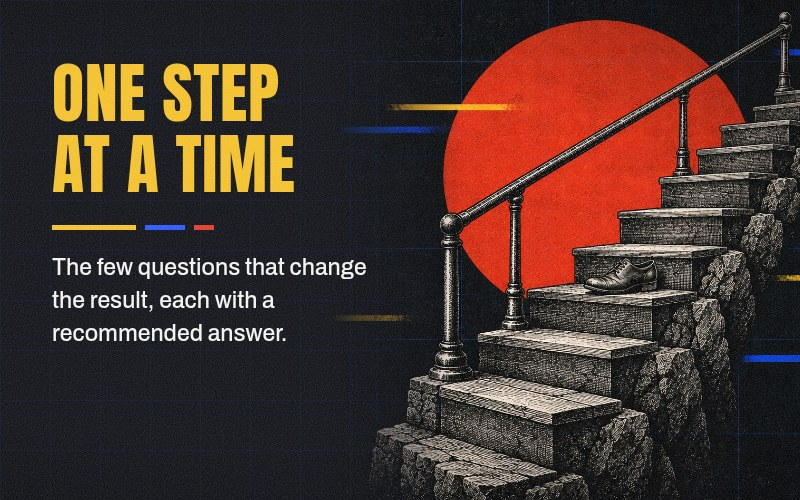
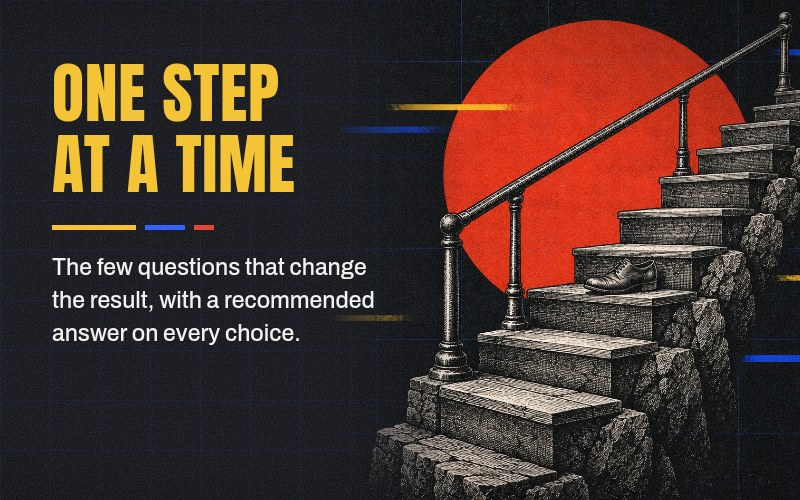
docs: a recommended answer on every choice, not on every step
The Hermes /review found the README art and body promising a recommended answer on every step. Only the choice
steps have one: the text steps return no recommendation and, with the AI off, offer Skip.

README intro, usage step 3, the one-step card (image, alt text and caption), the how-it-works strip (image and alt
text) and docs/STEPS-REVIEW.md now say so. Tests: studio-core pins that every choice step has a recommendation and no
text step has one on the four targets; the docs test refuses the every-step wording.

Changed region(s): [[0.0625, 0.57, 0.4688, 0.69]]

diff --git a/tests/test_docs_structure.py b/tests/test_docs_structure.py
@@ -45,6 +45,13 @@ def test_the_catalog_banner_is_two_to_one():
     assert (int.from_bytes(data[16:20], "big"), int.from_bytes(data[20:24], "big")) == (1200, 600)
 
 
+def test_docs_promise_a_recommendation_on_choices_only():
+    # Text steps have none of their own (tests/desktop/studio-core.test.mjs pins it), so "every step" is untrue.
+    claim = re.compile(r"(?:each|every) step\b[^.]{0,60}recommend|steps?, each with a recommended", re.I)
+    for name in ("README.md", "docs/STEPS-REVIEW.md"):
+        assert not claim.search((REPO / name).read_text()), name
+
+
 def test_six_adrs_each_with_status_context_decision_consequences():
     assert [p.name[:4] for p in ADRS] == ["0001", "0002", "0003", "0004", "0005", "0006"]
     for adr in ADRS:

diff --git a/README.md b/README.md
@@ -4,7 +4,7 @@
 
 Prompt Studio is a Hermes Desktop plugin that turns a rough request into a well-built prompt for
 **Claude Fable 5.2**, **Claude Opus 5.5**, **Claude Sonnet 5.5** or **GPT-6 Astra**. It asks the few questions that change the result, one step
-at a time, with a recommended answer on each. Then it writes the prompt and places it in the message field for you to
+at a time, with a recommended answer on every choice. Then it writes the prompt and places it in the message field for you to
 review. It never sends anything on its own.
 
 Each step can get a suggestion from an auxiliary AI model, and at the end that model can polish the prompt from your
@@ -13,12 +13,12 @@ engine for the chosen model. The four engines were written for this plugin from 
 documentation ([how each prompt is built](docs/MODELS.md)).
 
 <table><tr>
-<td width="33%" valign="top"><img src="docs/images/card-one-step.jpg" alt="Feature card: One step at a time. The few questions that change the result, each with a recommended answer. Illustration of an engraved staircase climbed one step at a time."><h3>One step at a time</h3><p>It asks the few questions that change the result, one at a time. Every step has a recommended answer, and you can skip, go back or edit an earlier one.</p></td>
+<td width="33%" valign="top"><img src="docs/images/card-one-step.jpg" alt="Feature card: One step at a time. The few questions that change the result, with a recommended answer on every choice. Illustration of an engraved staircase climbed one step at a time."><h3>One step at a time</h3><p>It asks the few questions that change the result, one at a time. Every choice has a recommended answer, and you can skip, go back or edit an earlier one.</p></td>
 <td width="33%" valign="top"><img src="docs/images/card-four-engines.jpg" alt="Feature card: Built for your model. Four engines written from the official prompting docs of each model. Illustration of four different engraved pen nibs."><h3>Built for your model</h3><p>Four prompt engines, for Claude Fable 5.2, Claude Opus 5.5, Claude Sonnet 5.5 and GPT-6 Astra, each written from the vendor's official prompting documentation.</p></td>
 <td width="33%" valign="top"><img src="docs/images/card-ai-off.jpg" alt="Feature card: Works with the AI off. AI suggestions when you want them. A complete prompt even without them. Illustration of a hand-cranked lantern, lit, next to an unplugged cable."><h3>Works with the AI off</h3><p>An auxiliary model can suggest answers and polish the final prompt. When it is off, slow or unavailable, the plugin's own engine still builds a complete prompt.</p></td>
 </tr></table>
 
-<p align="center"><img src="docs/images/how-it-works.jpg" width="100%" alt="How it works. Write: type a rough request and press F4. Answer: a few steps, each with a recommended answer. Generate: preview the prompt, with or without the AI version. Send or edit: F9 sends it, Alt+E puts it in the message field."></p>
+<p align="center"><img src="docs/images/how-it-works.jpg" width="100%" alt="How it works. Write: type a rough request and press F4. Answer: a few steps, with recommended choices. Generate: preview the prompt, with or without the AI version. Send or edit: F9 sends it, Alt+E puts it in the message field."></p>
 
 ## Requirements
 
@@ -77,7 +77,7 @@ close Hermes Desktop on the app machine. Every option, the Windows path and the 
 3. Answer the steps. Depending on the request they cover what you want to receive, reference text to paste (and where
    it came from), context, rules that cannot be broken, how you will know it is done, interface patterns to avoid
    (Opus, Sonnet and Fable, code work), autonomy, subagents, an example of the result, format and length.
-   Every step has a recommended choice. You can skip, go back, or edit any earlier answer.
+   Every choice has a recommended answer; the text steps are optional. You can skip, go back, or edit any earlier answer.
 4. Generate. The preview shows the prompt; switch between the AI version and the version built without AI,
    then **Send now** (F9) to send it at once, or **Put in composer to edit** (Alt+E) to place it in the message field and edit it first.
 

diff --git a/docs/STEPS-REVIEW.md b/docs/STEPS-REVIEW.md
@@ -5,8 +5,9 @@ make inside a Hermes session. Everything the engine can read from the draft, and
 already decides, is not asked. The prompt lines each answer produces, with their doc sources, are in
 [PROMPT-DOCS-REVIEW.md](PROMPT-DOCS-REVIEW.md).
 
-Every step has a recommended answer (the engine's default or the AI suggestion) and can be skipped; a skipped
-step uses the recommendation.
+Every choice step has a recommended answer (the engine's default or the AI pick), and a skipped choice uses it.
+The text steps are optional and have no fixed recommendation: with the AI on, it suggests a text for each of them
+except the pasted reference.
 
 ## Steps asked (in order)
 

diff --git a/CHANGELOG.md b/CHANGELOG.md
@@ -19,6 +19,8 @@ Versions come from the commit subjects. Only 1.6.0 and later have git tags (`v1.
 - Docs: new README art (hero, three feature cards, a how-it-works strip) and a new 2:1 banner for the plugin catalog
   card. The three screenshots were taken again from the current interface, in the dark theme, and show the model switch
   with Fable.
+- Docs: the README and the steps review no longer say that every step has a recommended answer. Choices have one;
+  the text steps are optional.
 
 ### Regression protection
 
